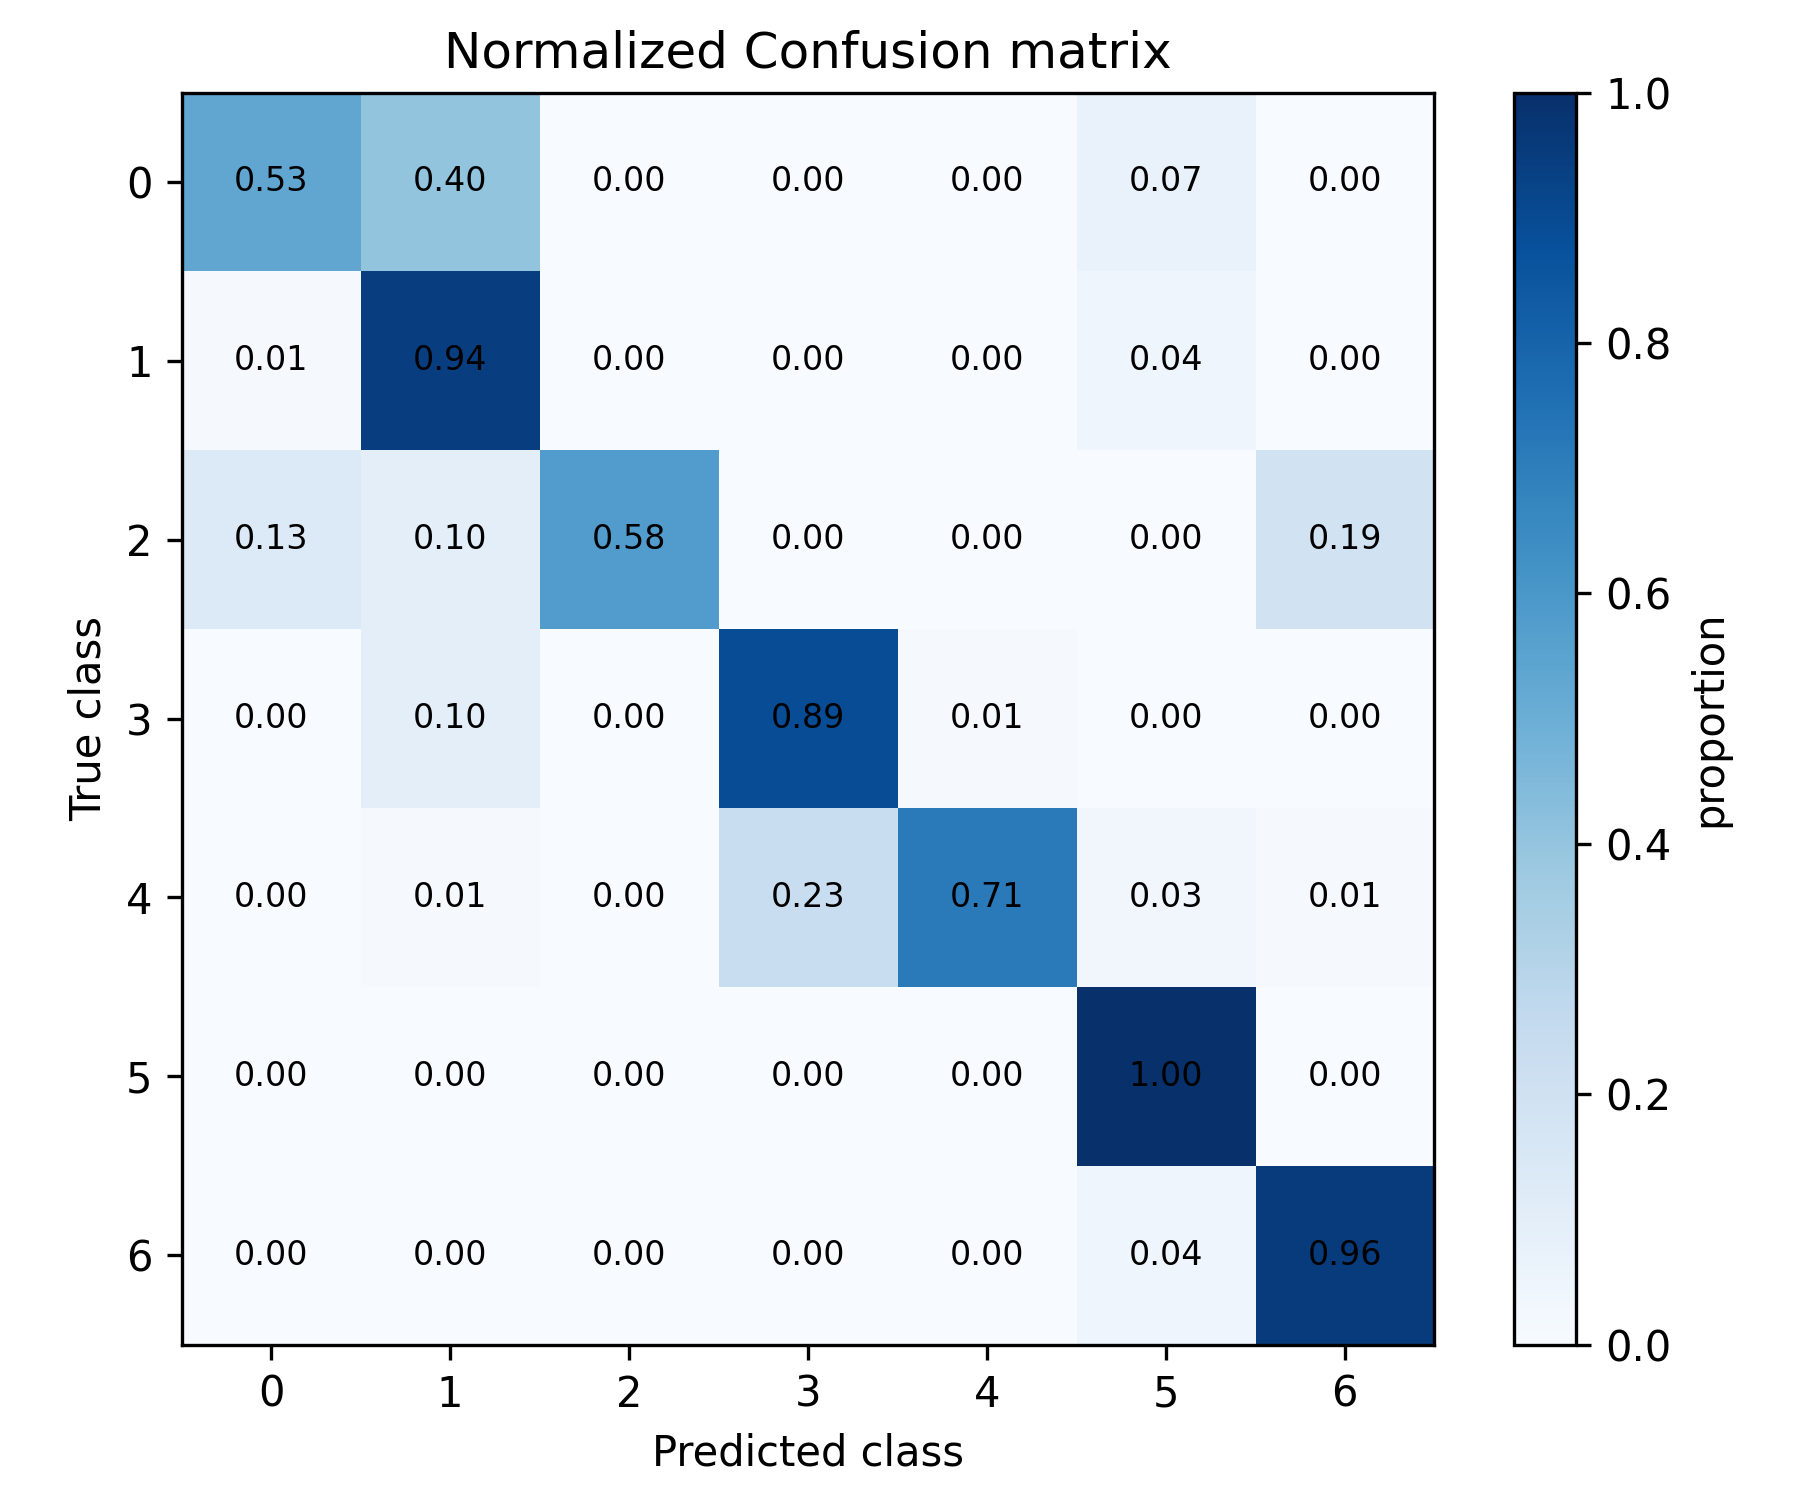
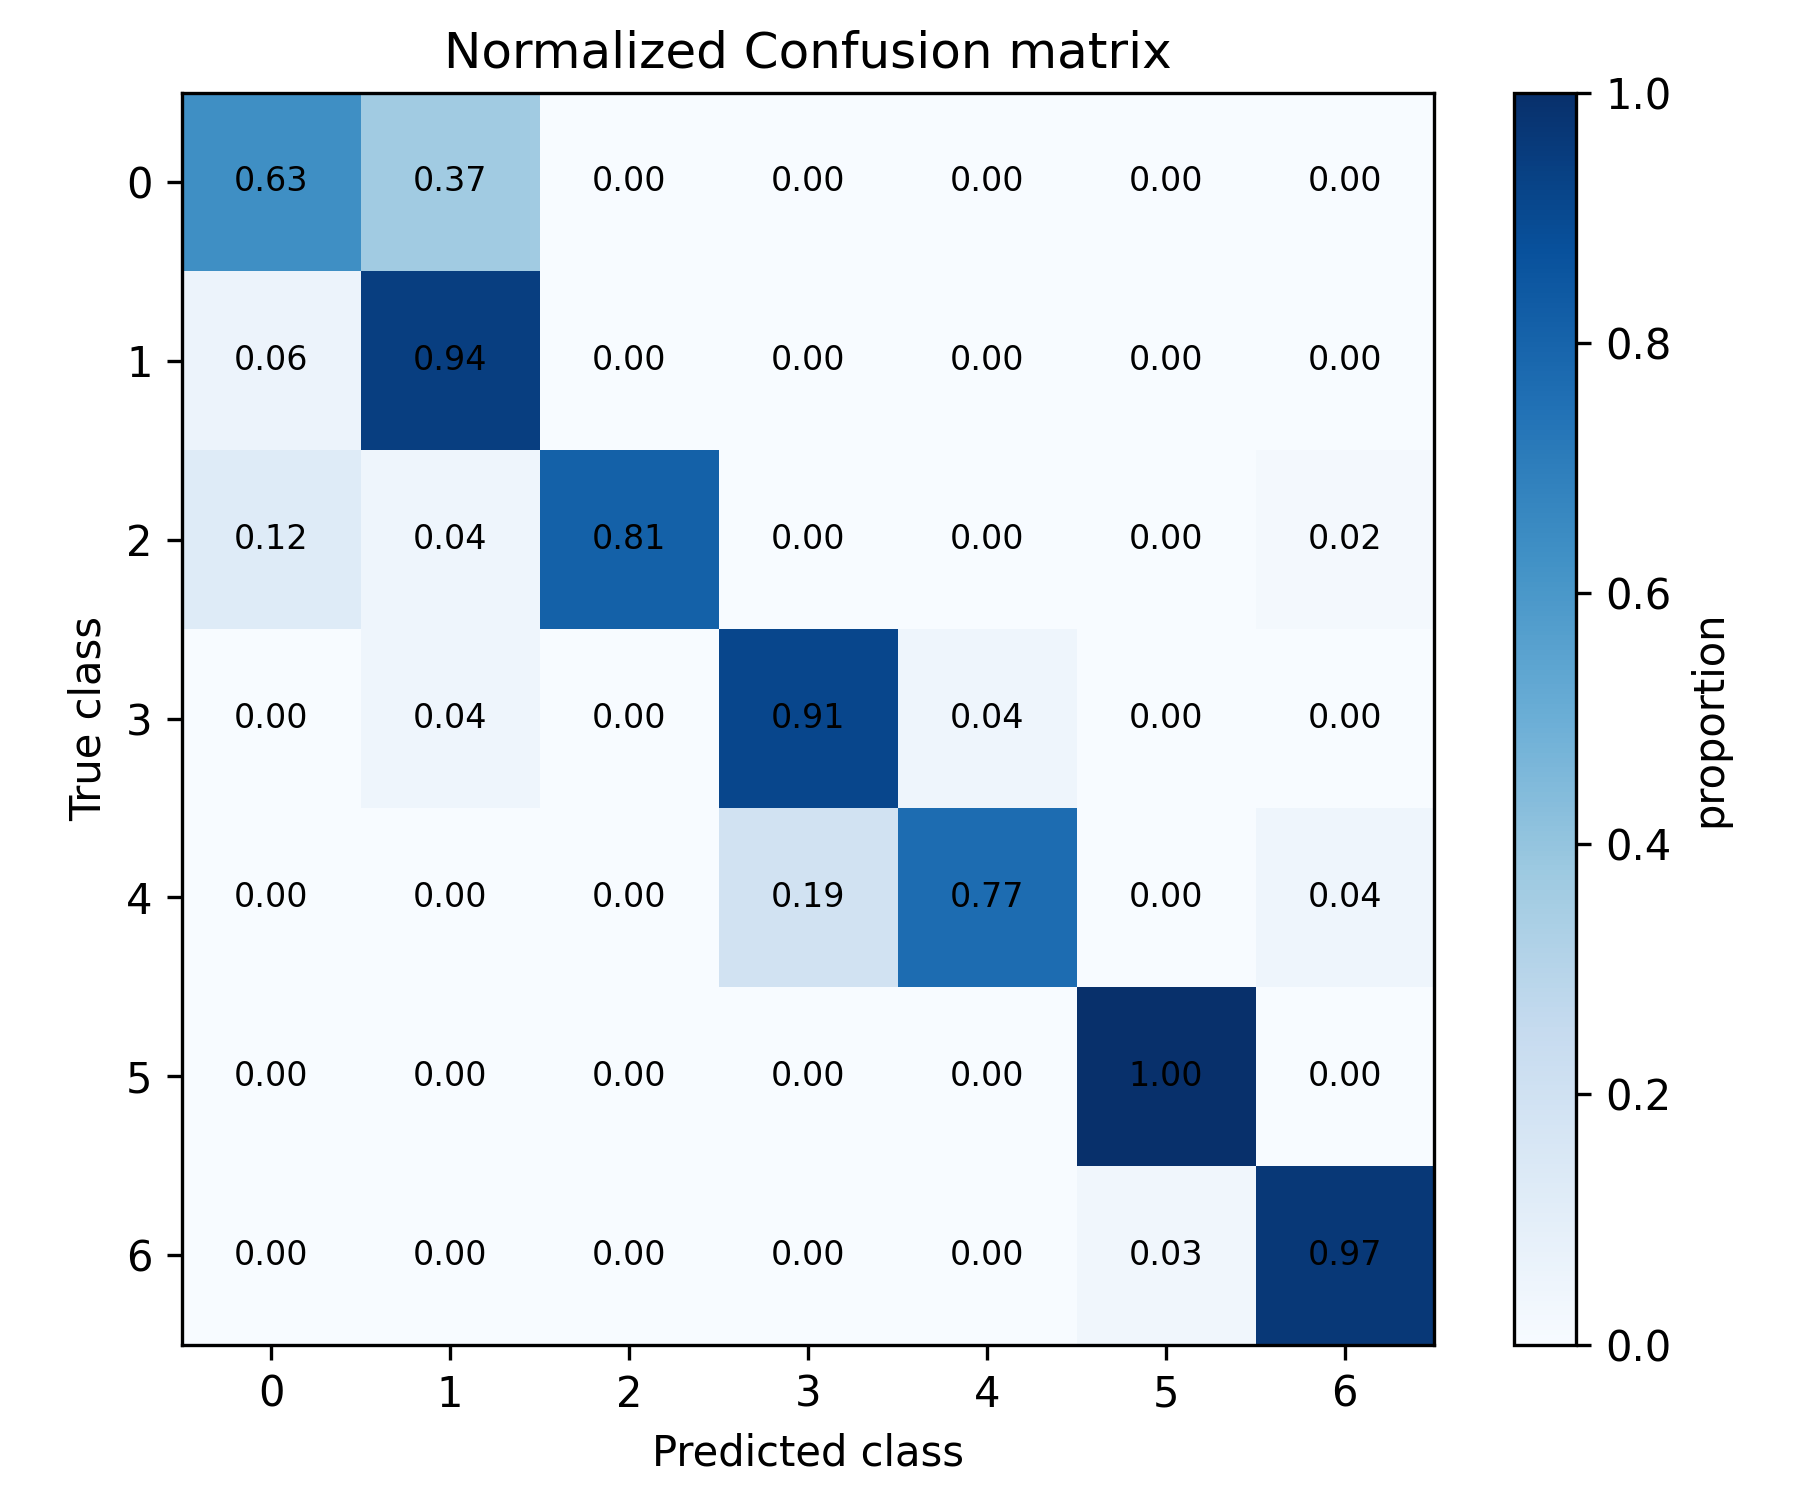
added a new model - a residual network cnn

diff --git a/python/src/models/first_residual_cnn.py b/python/src/models/first_residual_cnn.py
@@ -1,0 +1,135 @@
+from __future__ import annotations
+
+import torch
+import torch.nn as nn
+
+
+class ResidualBlock(nn.Module):
+    """
+    Basic residual block.
+
+    Structure:
+        x -> Conv -> BN -> ReLU -> Conv -> BN -> +x -> ReLU
+    """
+
+    def __init__(self, in_channels: int, out_channels: int, stride: int = 1):
+        super().__init__()
+
+        self.conv1 = nn.Conv2d(
+            in_channels,
+            out_channels,
+            kernel_size=3,
+            stride=stride,
+            padding=1,
+            bias=False,
+        )
+        self.bn1 = nn.BatchNorm2d(out_channels)
+
+        self.conv2 = nn.Conv2d(
+            out_channels,
+            out_channels,
+            kernel_size=3,
+            padding=1,
+            bias=False,
+        )
+        self.bn2 = nn.BatchNorm2d(out_channels)
+
+        self.relu = nn.ReLU(inplace=True)
+
+        # projection if dimensions change
+        self.skip = nn.Identity()
+
+        if stride != 1 or in_channels != out_channels:
+            self.skip = nn.Sequential(
+                nn.Conv2d(in_channels, out_channels, kernel_size=1, stride=stride, bias=False),
+                nn.BatchNorm2d(out_channels),
+            )
+
+    def forward(self, x: torch.Tensor) -> torch.Tensor:
+        identity = self.skip(x)
+
+        out = self.conv1(x)
+        out = self.bn1(out)
+        out = self.relu(out)
+
+        out = self.conv2(out)
+        out = self.bn2(out)
+
+        out += identity
+        out = self.relu(out)
+
+        return out
+
+
+class ResidualCNN(nn.Module):
+    """
+    Residual CNN backbone for RF interference recognition.
+
+    Expected input:
+        (N, 1, F, T)
+    """
+
+    def __init__(self, num_classes: int = 7):
+        super().__init__()
+
+        # Initial stem
+        self.stem = nn.Sequential(
+            nn.Conv2d(1, 32, kernel_size=3, padding=1, bias=False),
+            nn.BatchNorm2d(32),
+            nn.ReLU(inplace=True),
+        )
+
+        # Residual stages
+        self.layer1 = nn.Sequential(
+            ResidualBlock(32, 32),
+            ResidualBlock(32, 32),
+        )
+
+        self.layer2 = nn.Sequential(
+            ResidualBlock(32, 64, stride=2),
+            ResidualBlock(64, 64),
+        )
+
+        self.layer3 = nn.Sequential(
+            ResidualBlock(64, 128, stride=2),
+            ResidualBlock(128, 128),
+        )
+
+        self.pool = nn.AdaptiveAvgPool2d((1, 1))
+
+        self.classifier = nn.Linear(128, num_classes)
+
+    def forward(self, x: torch.Tensor) -> torch.Tensor:
+
+        if x.ndim != 4:
+            raise ValueError(f"Expected 4D input (N,1,F,T), got {tuple(x.shape)}")
+
+        x = self.stem(x)
+
+        x = self.layer1(x)
+        x = self.layer2(x)
+        x = self.layer3(x)
+
+        x = self.pool(x)
+
+        x = torch.flatten(x, 1)
+
+        logits = self.classifier(x)
+
+        return logits
+
+    def extract_embedding(self, x: torch.Tensor) -> torch.Tensor:
+        """
+        Returns feature embedding before classification.
+        """
+
+        x = self.stem(x)
+
+        x = self.layer1(x)
+        x = self.layer2(x)
+        x = self.layer3(x)
+
+        x = self.pool(x)
+        x = torch.flatten(x, 1)
+
+        return x

diff --git a/python/src/train/model_trainer.py b/python/src/train/model_trainer.py
@@ -16,16 +16,16 @@ from python.src.train.engine import train_one_epoch, evaluate
 from python.src.train.hparams import HParams
 from python.src.utils.dataloaders import create_train_loader, create_eval_loader
 from python.src.utils.device import resolve_device
-from python.src.analysis.model_diagnostics import generate_confusion_outputs
+from python.src.analysis.model_diagnostics import generate_confusion_outputs, plot_cnn_feature_embedding
 
 from python.src.models.baseline_cnn import BaselineCNN
-#from python.src.models.baseline_cnn import [future models 1]
+from python.src.models.first_residual_cnn import ResidualCNN
 #from python.src.models.baseline_cnn import [future models 2]
 
 
 MODEL_REGISTRY = {
     "baseline_cnn": BaselineCNN,
-    #"future model 1": FutureModel1,
+    "first_residual_cnn": ResidualCNN,
     #"future model 2": FutureModel2,
 }
 
@@ -122,11 +122,12 @@ def train_model(seed: int, project_root: Path, model_name: str = "baseline_cnn")
             best_val_acc = val_acc
             best_state = model.state_dict()
 
-        print(
-            f"Epoch {epoch:02d} | "
-            f"Train Loss: {train_loss:.6f} | "
-            f"Val Loss: {val_loss:.6f} | "
-            f"Val Acc: {100 * val_acc:.2f}"
+        if epoch == 1 or epoch % 5 == 0:
+            print(
+                f"Epoch {epoch:02d} | "
+                f"Train Loss: {train_loss:.6f} | "
+                f"Val Loss: {val_loss:.6f} | "
+                f"Val Acc: {100 * val_acc:.2f}"
         )
 
         metrics_log["epochs"].append(
@@ -139,7 +140,7 @@ def train_model(seed: int, project_root: Path, model_name: str = "baseline_cnn")
         )
     model.load_state_dict(best_state)
 
-    figures_dir = project_root / "reports" / "figures" / f"model_seed{seed}"
+    figures_dir = project_root / "reports" / "figures" / f"{model_name}_seed{seed}"
 
     generate_confusion_outputs(
         model,
@@ -147,6 +148,14 @@ def train_model(seed: int, project_root: Path, model_name: str = "baseline_cnn")
         device,
         figures_dir,
         n_classes=7,
+    )
+
+    plot_cnn_feature_embedding(
+        model,
+        val_loader,
+        device,
+        figures_dir,
+        n_classes=7
     )
 
     ckpt_dir = project_root / "artifacts" / "checkpoints"
@@ -165,5 +174,5 @@ def train_model(seed: int, project_root: Path, model_name: str = "baseline_cnn")
 
     print(f"\nModel saved to: {ckpt_path}")
     print(f"Training log saved to: {log_path}")
-    print(f"Confusion matrix and per-class accuracy saved to: {figures_dir}")
+    print(f"Confusion matrix, per-class accuracy and feature embedding saved to: {figures_dir}")
     print(f"\nBest validation accuracy: {100 * best_val_acc:.2f}")

diff --git a/python/src/analysis/model_diagnostics.py b/python/src/analysis/model_diagnostics.py
@@ -6,6 +6,7 @@ import torch
 
 from sklearn.metrics import roc_curve, auc
 from sklearn.preprocessing import label_binarize
+from sklearn.manifold import TSNE
 
 
 def generate_confusion_outputs(model, dataloader, device, out_dir: Path, n_classes=7):
@@ -123,3 +124,56 @@ def generate_confusion_outputs(model, dataloader, device, out_dir: Path, n_class
 
     with open(out_dir / "per_class_accuracy.json", "w") as f:
         json.dump(per_class_accuracy, f, indent=2)
+
+
+
+
+def plot_cnn_feature_embedding(model, dataloader, device, out_dir, n_classes=7):
+
+    model.eval()
+
+    embeddings = []
+    labels = []
+
+    with torch.no_grad():
+        for X, y in dataloader:
+
+            X = X.to(device)
+
+            feat = model.extract_embedding(X)
+
+            embeddings.append(feat.cpu().numpy())
+            labels.append(y.numpy())
+
+    embeddings = np.concatenate(embeddings)
+    labels = np.concatenate(labels)
+
+    tsne = TSNE(
+        n_components=2,
+        perplexity=30,
+        init="pca",
+        random_state=42
+    )
+
+    emb_2d = tsne.fit_transform(embeddings)
+
+    plt.figure(figsize=(6,6))
+
+    for c in range(n_classes):
+
+        idx = labels == c
+
+        plt.scatter(
+            emb_2d[idx,0],
+            emb_2d[idx,1],
+            s=6,
+            label=f"class {c}"
+        )
+
+    plt.legend(markerscale=3)
+    plt.title("CNN Feature Embedding (t-SNE)")
+    plt.xlabel("Dim 1")
+    plt.ylabel("Dim 2")
+
+    plt.savefig(out_dir / "cnn_feature_embedding.png", dpi=300)
+    plt.close()

diff --git a/scripts/train_baseline_runner.py b/scripts/train_baseline_runner.py
@@ -16,16 +16,18 @@ def main():
 
     project_root = find_project_root()
 
-    model = "baseline_cnn"
+    models = ["baseline_cnn", "first_residual_cnn"]
 
     seeds = [22, 42, 121]
 
-    for seed in seeds:
 
-        print(f"\n\nRunning experiment seed={seed}")
-        print("===================================\n")
+    for model in models:
+        for seed in seeds:
 
-        train_model(seed=seed, project_root=project_root, model_name=model)
+            print(f"\n\nRunning experiment model = {model}, seed={seed}")
+            print("===================================\n")
+
+            train_model(seed=seed, project_root=project_root, model_name=model)
 
 
 if __name__ == "__main__":

diff --git a/python/src/models/baseline_cnn.py b/python/src/models/baseline_cnn.py
@@ -46,3 +46,10 @@ class BaselineCNN(nn.Module):
         z = torch.flatten(z, start_dim=1)
         logits = self.classifier(z)
         return logits
+
+    def extract_embedding(self, x):
+        x = self.features(x)  # convolutional blocks
+        #x = self.pool(x)  # adaptive pooling if present
+        x = torch.flatten(x, 1)
+
+        return x
